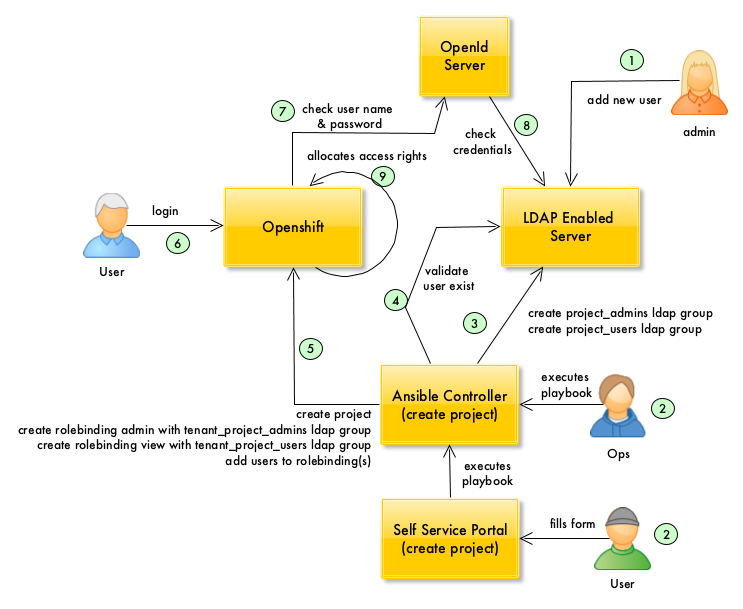
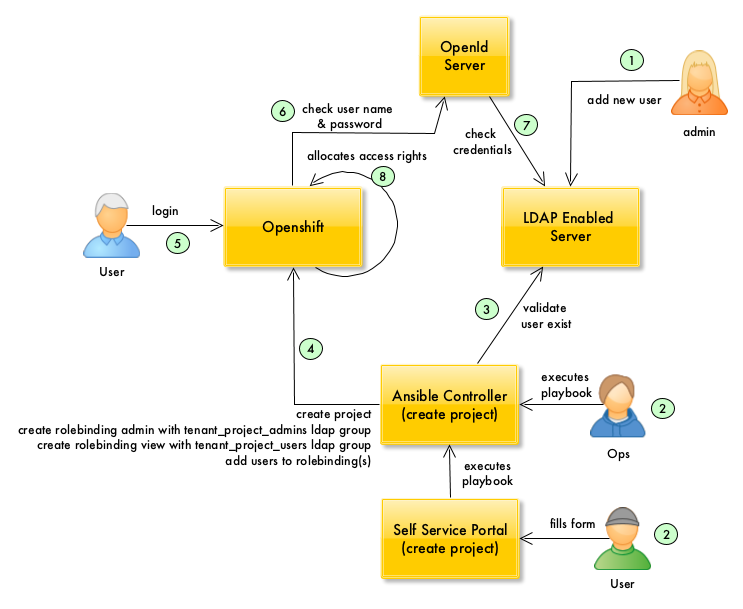
.

diff --git a/architecture/ocp_idam.md b/architecture/ocp_idam.md
@@ -62,7 +62,7 @@ The following default cluster roles have role bindings to the LDAP server:
 This section describes the integration points with the Identity and Access Management functions.
 
 <a ref="ldap-sync"></a>
-### LDAP Authentication + LDAP Sync
+### Scenario 1: LDAP Authentication + LDAP Sync
 
 The following image shows the tasks required to set up an OCP project for LDAP based authentication and LDAP sync for access control: 
 
@@ -92,7 +92,7 @@ The sync can be configured to run at specific intervals (e.g. 15 minutes).
 9. OCP allocates access rights to the user based on the information stored in the role bindings.
 
 <a ref="openid-sync"></a>
-### OpenID Authentication + LDAP Sync
+### Scenario 2: OpenID Authentication + LDAP Sync
 
 The following image shows the tasks required to set up an OCP project for OpenId authentication with LDAP sync for access control: 
 
@@ -124,7 +124,7 @@ The sync can be configured to run at specific intervals (e.g. 15 minutes).
 10. OCP allocates access rights to the user based on the information stored in the role bindings.
 
 <a ref="openid-nosync"></a>
-### OpenID Authentication - No LDAP Sync
+### Scenario 3: OpenID Authentication - No LDAP Sync
 
 The following image shows the tasks required to set up an OCP project for OpenId authentication with no LDAP sync (users added to rolebindings at project provisioning time): 
 
@@ -135,19 +135,18 @@ standard on-boarding process to add and remove users from their servers.
 
 2. Either a user fills a form on a self service portal or an ops person executes an Ansible playbook to create one or more OCP projects.
 
-3. The playbook creates two groups per OCP project in the LDAP server. 
-The group names follow a specific naming convention. 
-One group is for standard project users and the other group is for project admins.
+3. The playbook connects to the LDAP server and verifies that the user(s) exist. If not, they wont't be added to the role bindings later.
 
-4. The playbook check that the user(s) exist in the LDAP server. 
-Only existing users are mapped in OCP role bindings in the next step.
+4. The playbook creates the required objects in OCP, namely project(s), role bindings, and add users to the role bindings.
 
-5. The playbook creates the required objects in OCP, namely project(s), role bindings, and add users to the role bindings.
+5. The user attempts to login into OCP.
 
-6. The user attempts to login into OCP.
+6. OCP uses the [OpenIDIdentityProvider](https://docs.openshift.com/container-platform/3.9/install_config/configuring_authentication.html#OpenID) to query the OpenID server and check the user name and password provided are correct.
 
-7. OCP uses the [OpenIDIdentityProvider](https://docs.openshift.com/container-platform/3.9/install_config/configuring_authentication.html#OpenID) to query the OpenID server and check the user name and password provided are correct.
+7. The OpenID server check credentials, in the LDAP server.
 
-8. The OpenID server check credentials, in the LDAP server.
+8. OCP allocates access rights to the user based on the information stored in the role bindings.
 
-9. OCP allocates access rights to the user based on the information stored in the role bindings.
+**NOTES** 
+
+- the management of access rights is done purely within OCP, no LDAP server is involved. This means that role bindings in OCP need to be updated (by the automation via the OCP API) as user access requirements to OCP projects change over the lifecycle of an application. 
